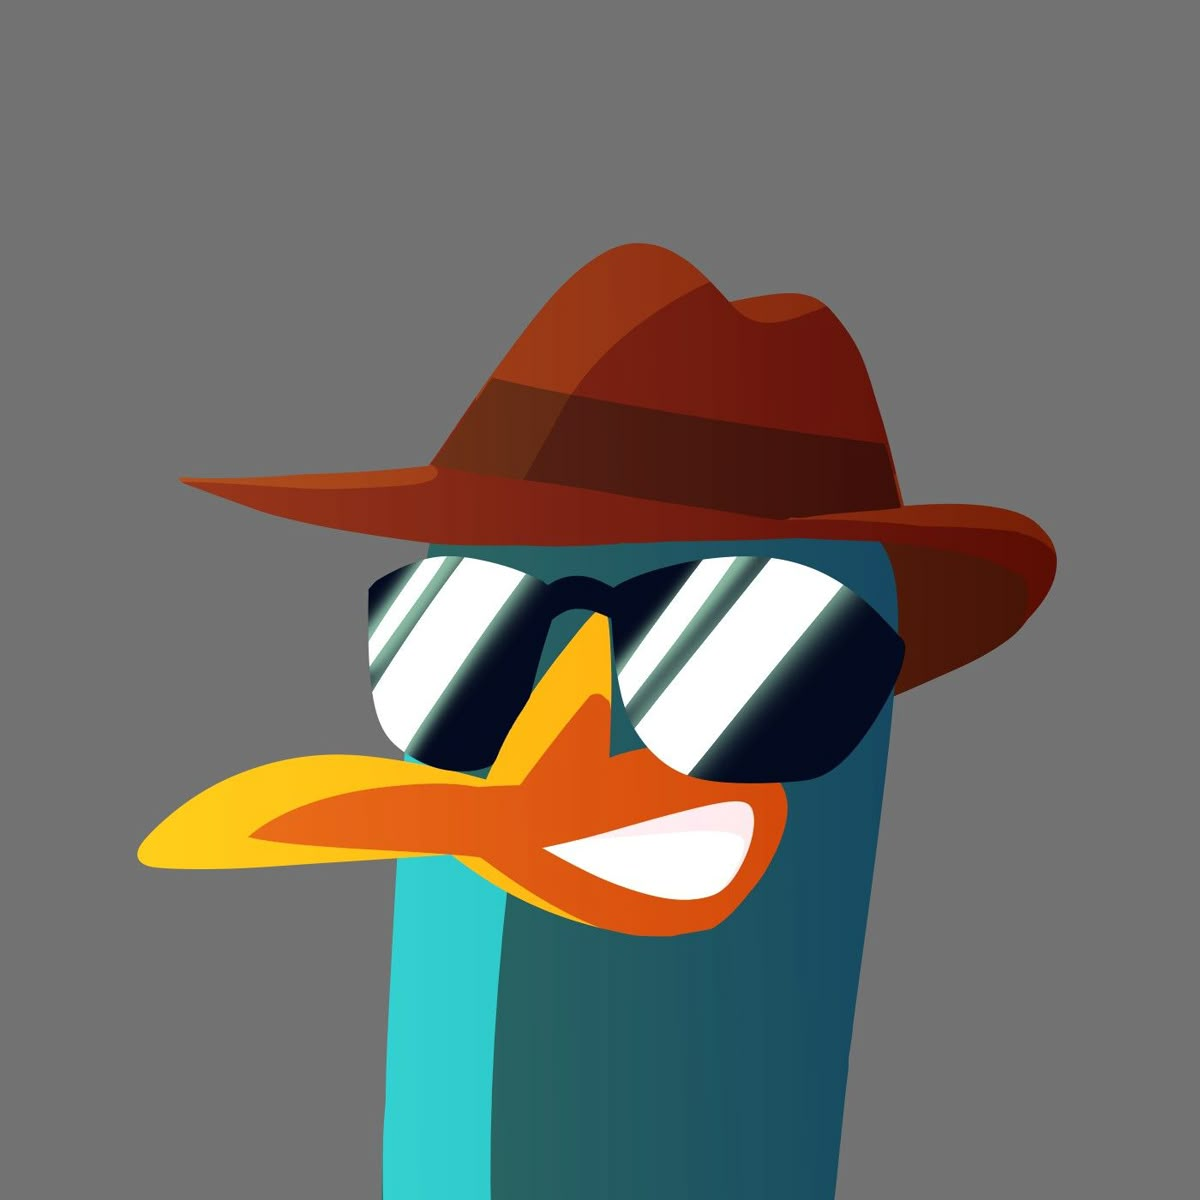
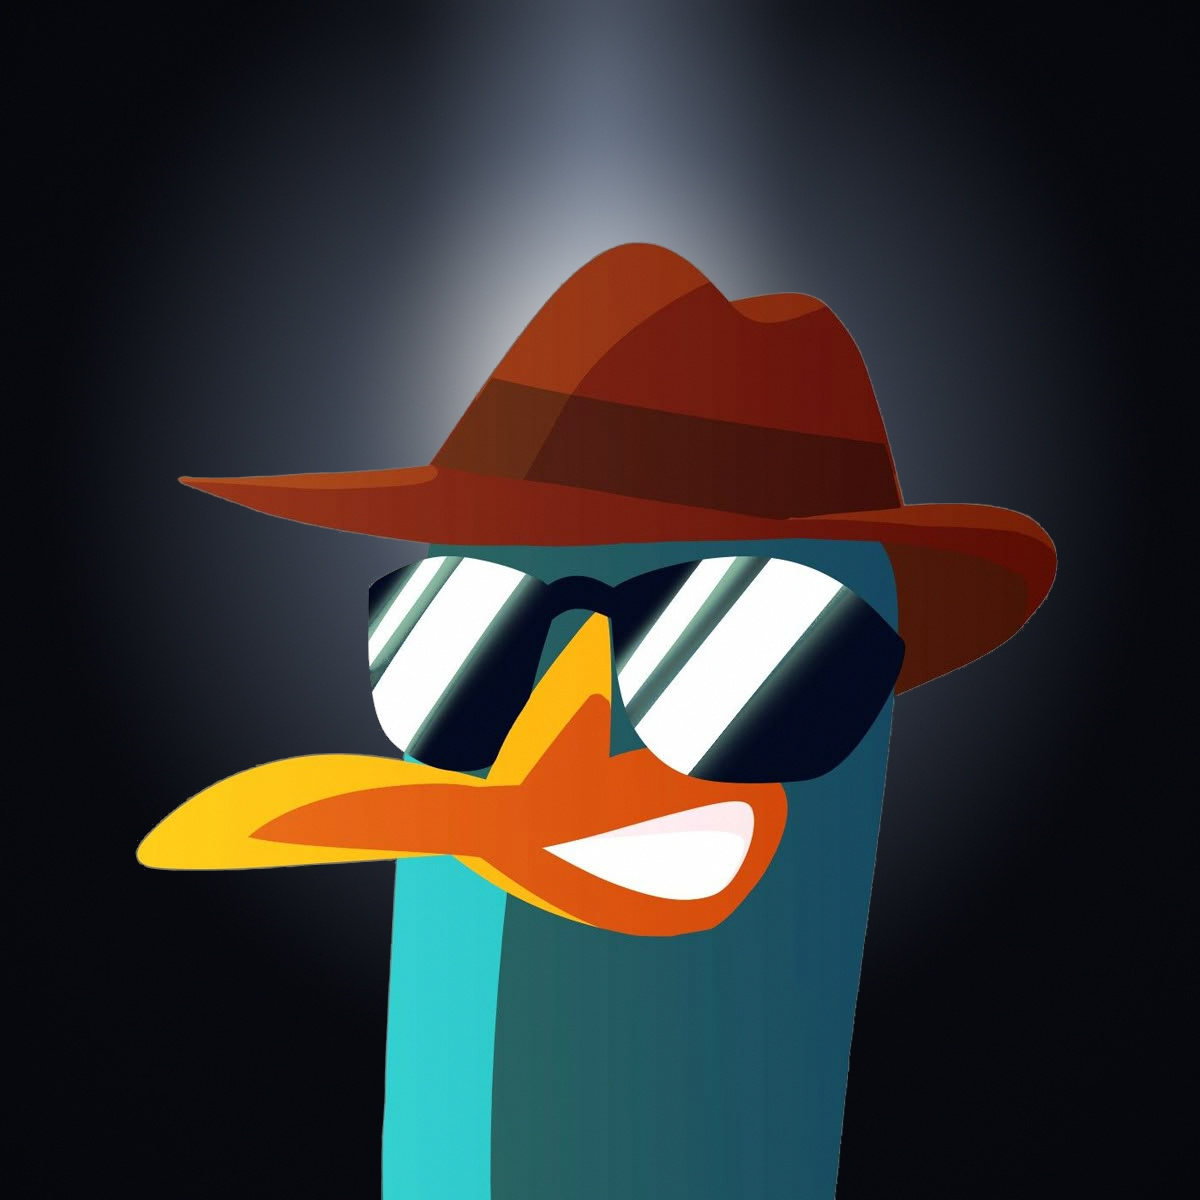
Center the flyleaf image and add a spotlight background.

diff --git a/README.md b/README.md
@@ -1,6 +1,8 @@
 # flyleaf
 
-<img src="flyleaf.jpg" alt="flyleaf" width="240">
+<p align="center">
+  <img src="flyleaf.jpg" alt="flyleaf" width="320">
+</p>
 
 flyleaf is a local documentation clerk for AI code. It inventories the AI libraries in a repository, cites the EU AI Act provisions a person should read, and reports when a model card is missing or has fallen behind the code.
 
